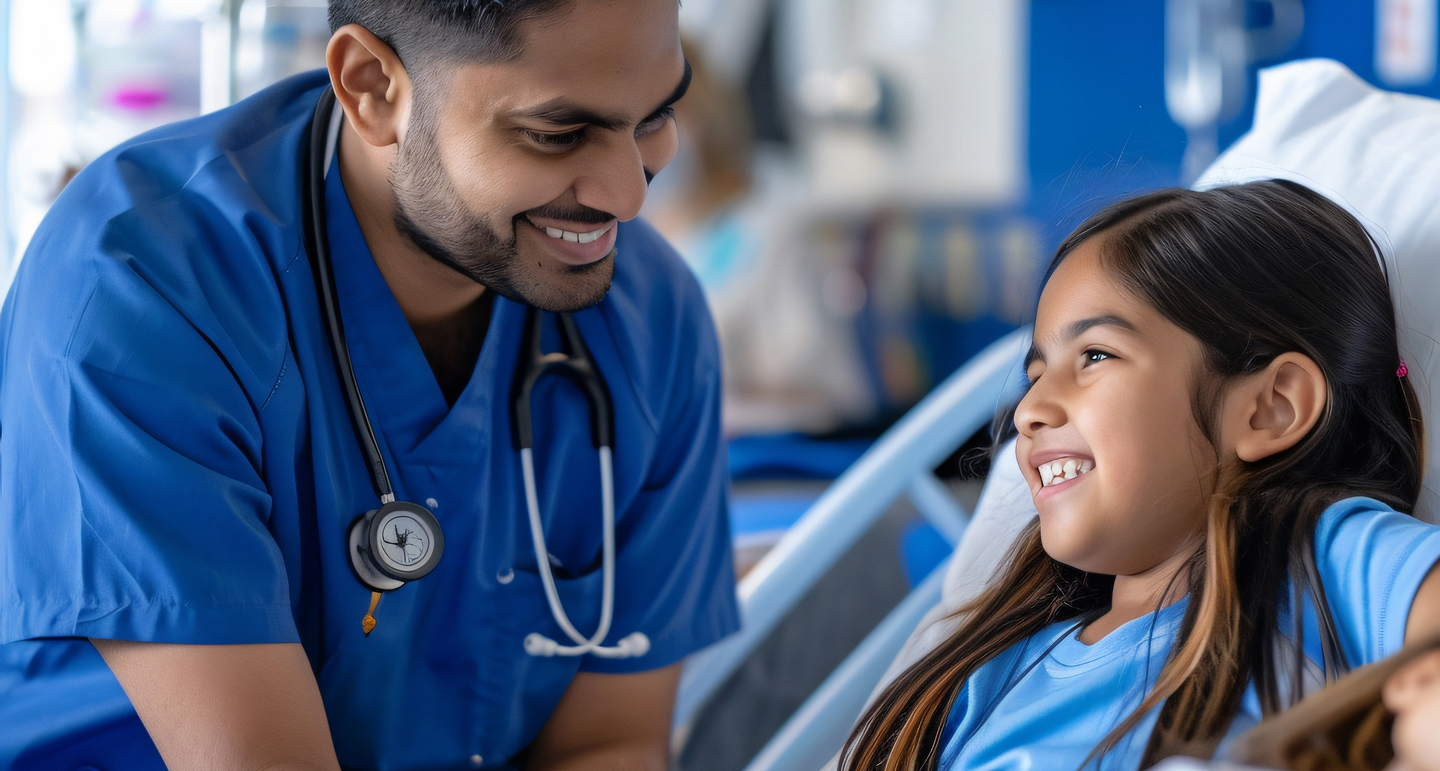
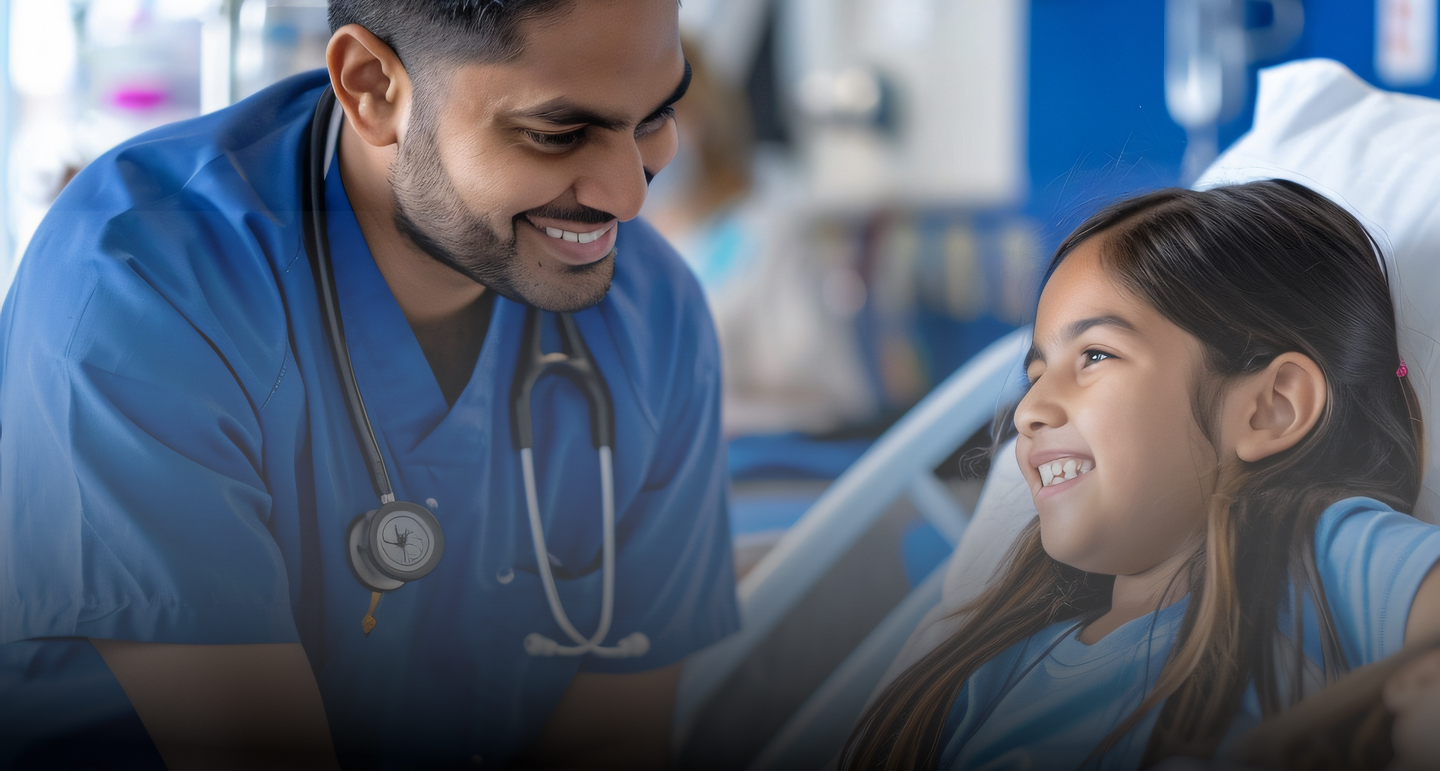
fix: replace all hero images without degraded

diff --git a/wp-content/themes/unw/styles/components/ui/hero-slide.scss b/wp-content/themes/unw/styles/components/ui/hero-slide.scss
@@ -3,22 +3,6 @@
   overflow: hidden;
 }
 
-.hero-slide::after {
-  content: "";
-  position: absolute;
-  left: 0;
-  bottom: 0;
-  width: 100%;
-  height: 20%;
-  pointer-events: none;
-  background: linear-gradient(to top, rgba(0, 0, 0, 1), rgba(255, 255, 255, 0));
-  z-index: 2;
-
-  @include media(">=phone") {
-    height: 50%;
-  }
-}
-
 .hero-slide__picture {
   width: 100%;
 }
@@ -68,24 +52,6 @@
 }
 
 .hero-slide[data-variant="primary"] {
-  &::after {
-    height: 70%;
-    background: linear-gradient(
-      23deg,
-      rgba(0, 102, 158, 0.7) 19.02%,
-      rgba(218, 247, 247, 0) 60.17%
-    );
-
-    @include media(">=phone") {
-      height: 100%;
-      background: linear-gradient(
-        23deg,
-        rgba(0, 102, 158, 0.7) 10.02%,
-        rgba(218, 247, 247, 0) 30.17%
-      );
-    }
-  }
-
   .hero-slide__content--title {
     @include title-40;
 

diff --git a/wp-content/themes/unw/styles/pages/events/events-hero.scss b/wp-content/themes/unw/styles/pages/events/events-hero.scss
@@ -9,22 +9,6 @@
   overflow: hidden;
 }
 
-.event-slide::after {
-  content: "";
-  position: absolute;
-  left: 0;
-  bottom: 0;
-  width: 100%;
-  height: 90%;
-  pointer-events: none;
-  background: linear-gradient(to top, rgba(0, 0, 0, 1), rgba(0, 0, 0, 0));
-  z-index: 2;
-
-  @include media(">=phone") {
-    height: 50%;
-  }
-}
-
 .event-slide__picture--img {
   width: 100%;
   object-fit: cover;

diff --git a/wp-content/themes/unw/styles/pages/home/home-hero.scss b/wp-content/themes/unw/styles/pages/home/home-hero.scss
@@ -9,22 +9,6 @@
   overflow: hidden;
 }
 
-.swiper-hero__slide::after {
-  content: "";
-  position: absolute;
-  left: 0;
-  bottom: 0;
-  width: 100%;
-  height: 90%;
-  pointer-events: none;
-  background: linear-gradient(to top, rgba(0, 0, 0, 1), rgba(0, 0, 0, 0));
-  z-index: 2;
-
-  @include media(">=phone") {
-    height: 50%;
-  }
-}
-
 .swiper-hero__picture {
   width: 100%;
 }

diff --git a/wp-content/themes/unw/app/pages/all-careers/index.js b/wp-content/themes/unw/app/pages/all-careers/index.js
@@ -1,7 +1,2 @@
-import SearchInput from '../../components/SearchInput'
-
 (function () {
-  document.querySelectorAll('.search-input').forEach(element => {
-    new SearchInput({ element })
-  })
 })()

diff --git a/wp-content/themes/unw/app/pages/blog/index.js b/wp-content/themes/unw/app/pages/blog/index.js
@@ -1,7 +1,2 @@
-import SearchInput from '../../components/SearchInput'
-
 (function () {
-  document.querySelectorAll('.search-input').forEach(element => {
-    new SearchInput({ element })
-  })
 })()

diff --git a/wp-content/themes/unw/content-parts/pages/home/content-home-hero.php b/wp-content/themes/unw/content-parts/pages/home/content-home-hero.php
@@ -6,8 +6,8 @@ $link_one = $hero['link_one'] ?? null;
 $link_two = $hero['link_two'] ?? null;
 $hero_image = $hero['list'][0]['images'] ?? null;
 
-$img_desktop = $hero_image['desktop']['url'] ?? UPLOAD_PATH . '/home/hero/hero-desktop.png';
-$img_mobile = $hero_image['mobile']['url'] ?? UPLOAD_PATH . '/home/hero/hero-mobile.png';
+$img_desktop = $hero_image['desktop']['url'] ?? UPLOAD_PATH . '/home/hero/hero-desktop.jpg';
+$img_mobile = $hero_image['mobile']['url'] ?? UPLOAD_PATH . '/home/hero/hero-mobile.jpg';
 ?>
 <?php if(!empty($hero) && is_array($hero)): ?>
 <section class="hero hero-swiper">

diff --git a/wp-content/themes/unw/content-parts/common/content-entry-card.php b/wp-content/themes/unw/content-parts/common/content-entry-card.php
@@ -1,7 +1,7 @@
 <?php
 $image = $args['image'];
 $title = $args['title'];
-$date = $args['date'];
+$date = $args['date'] ?? '';
 $content = $args['content'];
 $href = $args['href'];
 ?>
